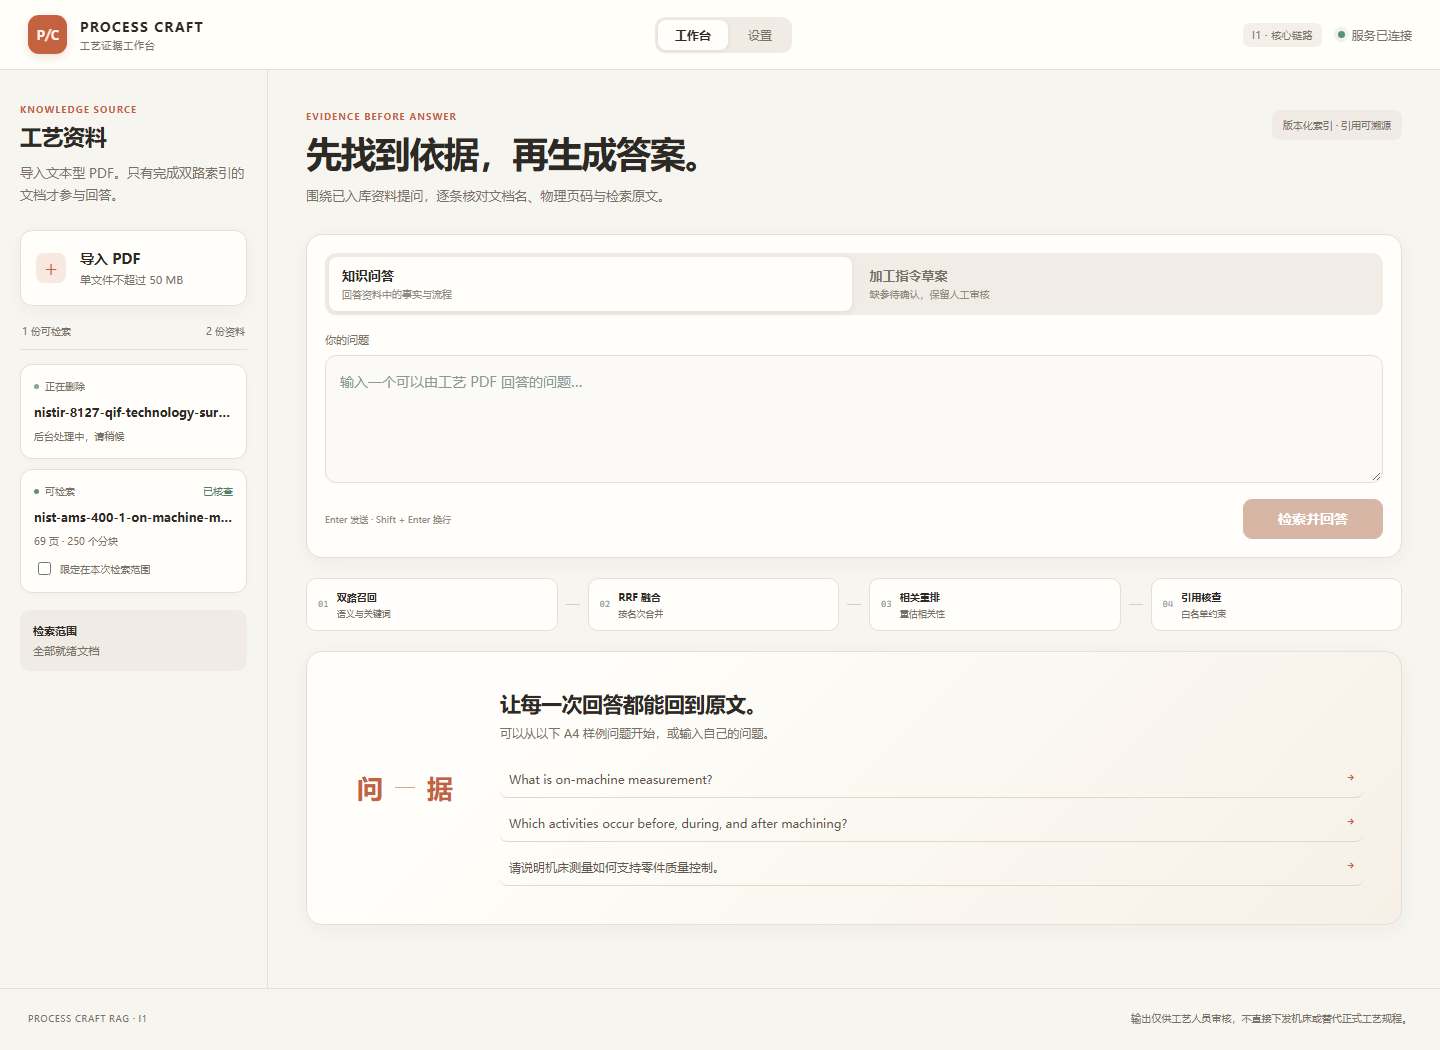
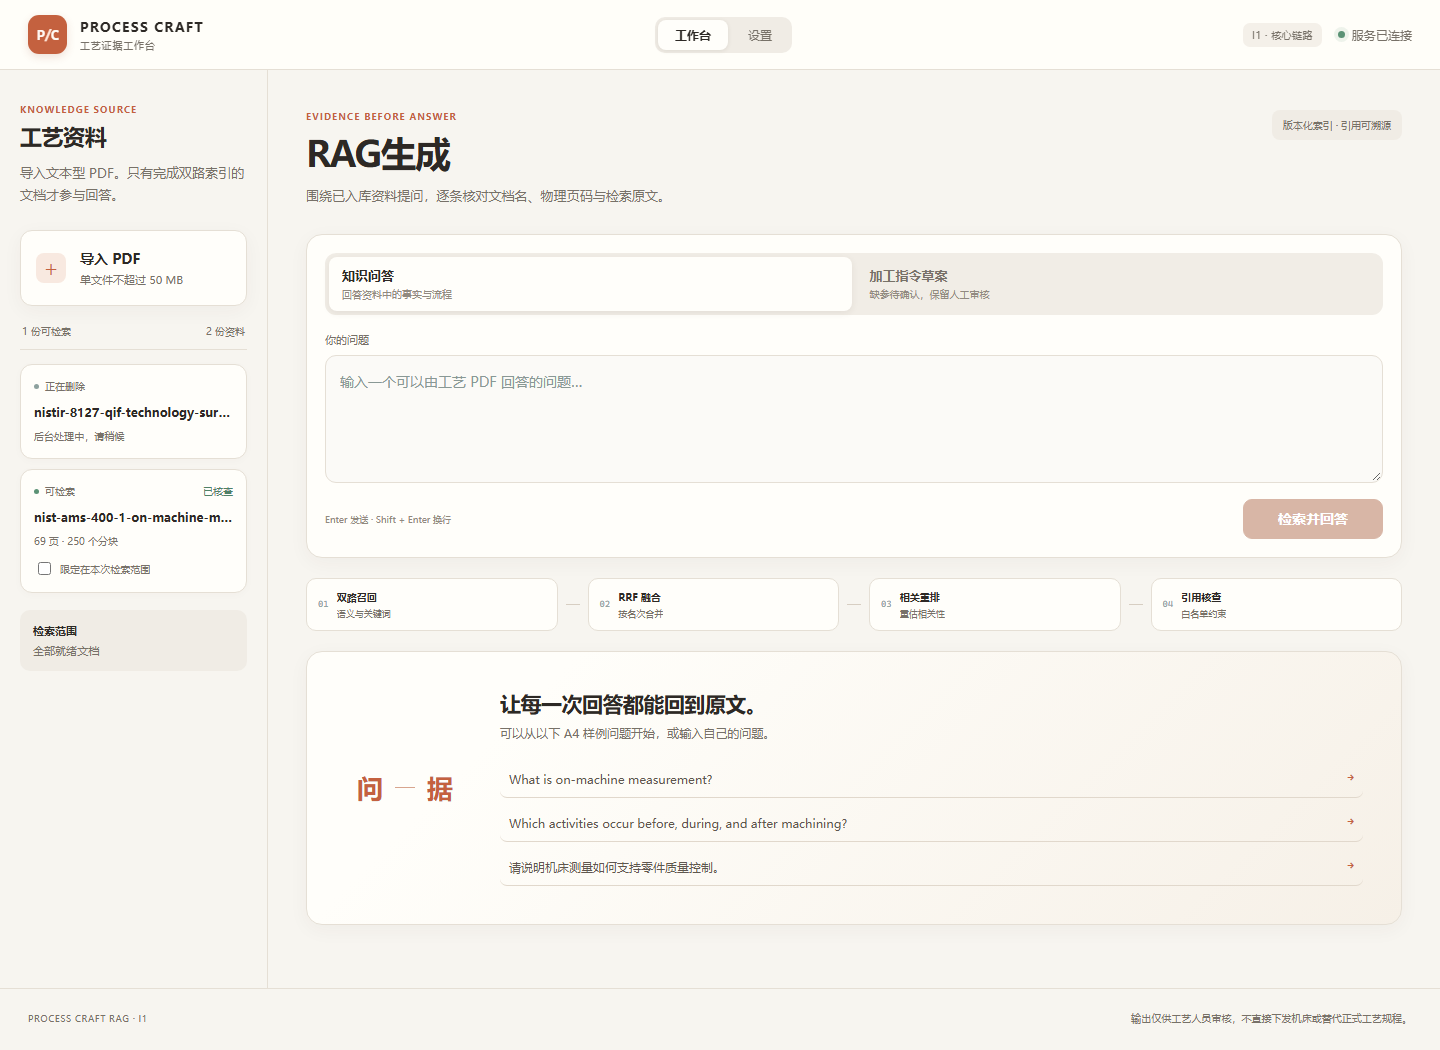
feat(i1): 调整工作台标题并刷新验收截图

Changed region(s): [[0.2188, 0.1219, 0.5, 0.1829]]

diff --git a/frontend/src/App.vue b/frontend/src/App.vue
@@ -344,7 +344,7 @@ onUnmounted(() => {
         <div class="workbench-heading">
           <div>
             <p class="eyebrow">EVIDENCE BEFORE ANSWER</p>
-            <h1>先找到依据，再生成答案。</h1>
+            <h1>RAG生成</h1>
             <p>围绕已入库资料提问，逐条核对文档名、物理页码与检索原文。</p>
           </div>
           <span class="snapshot-label">版本化索引 · 引用可溯源</span>
